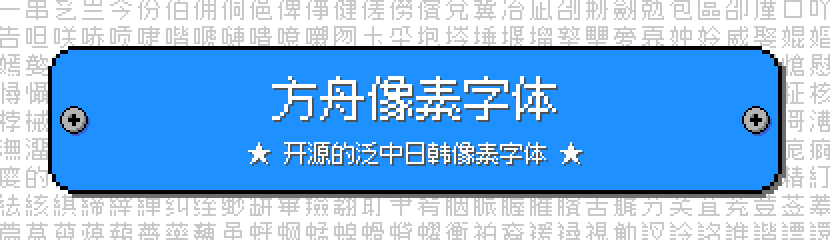
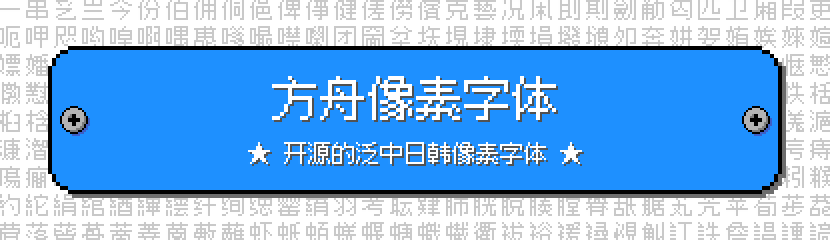
2025.12.11

diff --git a/tools/configs/__init__.py b/tools/configs/__init__.py
@@ -1,7 +1,7 @@
 from tools.configs import path_define, options
 from tools.configs.font import FontConfig
 
-version = '2025.10.20'
+version = '2025.12.11'
 
 font_configs = {font_size: FontConfig.load(font_size) for font_size in options.font_sizes}
 

diff --git a/docs/info-12px-monospaced.md b/docs/info-12px-monospaced.md
@@ -4,8 +4,8 @@
 
 | 属性 | 值 |
 |---|---|
-| 版本号 | 2025.10.20 |
-| 字符总数 | 22646 |
+| 版本号 | 2025.12.11 |
+| 字符总数 | 22944 |
 
 ## Unicode 字符分布
 
@@ -43,8 +43,8 @@ Unicode 版本：17.0.0
 | 3130 ~ 318F | Hangul Compatibility Jamo | 谚文兼容字母 | 94 / 94 | 0 | 100.00% 🚩 |
 | 3200 ~ 32FF | Enclosed CJK Letters and Months | 包围中日韩字母与月份 | 92 / 255 | 163 | 36.08% 🚧 |
 | 3300 ~ 33FF | CJK Compatibility | 中日韩兼容 | 60 / 256 | 196 | 23.44% 🚧 |
-| 3400 ~ 4DBF | CJK Unified Ideographs Extension A | 中日韩统一表意文字扩充 A | 922 / 6592 | 5670 | 13.99% 🚧 |
-| 4E00 ~ 9FFF | CJK Unified Ideographs | 中日韩统一表意文字 | 17851 / 20992 | 3141 | 85.04% 🚧 |
+| 3400 ~ 4DBF | CJK Unified Ideographs Extension A | 中日韩统一表意文字扩充 A | 1053 / 6592 | 5539 | 15.97% 🚧 |
+| 4E00 ~ 9FFF | CJK Unified Ideographs | 中日韩统一表意文字 | 17929 / 20992 | 3063 | 85.41% 🚧 |
 | A720 ~ A7FF | Latin Extended-D | 拉丁扩充-D | 7 / 199 | 192 | 3.52% 🚧 |
 | FE10 ~ FE1F | Vertical Forms | 竖排形式 | 10 / 10 | 0 | 100.00% 🚩 |
 | FE30 ~ FE4F | CJK Compatibility Forms | 中日韩兼容形式 | 32 / 32 | 0 | 100.00% 🚩 |
@@ -52,12 +52,12 @@ Unicode 版本：17.0.0
 | FFF0 ~ FFFF | Specials | 特殊 | 2 / 2 | 0 | 100.00% 🚩 |
 | 16FE0 ~ 16FFF | Ideographic Symbols and Punctuation | 表意文字符号与标点 | 5 / 7 | 2 | 71.43% 🚧 |
 | 1F100 ~ 1F1FF | Enclosed Alphanumeric Supplement | 包围字母数字增补 | 135 / 200 | 65 | 67.50% 🚧 |
-| 20000 ~ 2A6DF | CJK Unified Ideographs Extension B | 中日韩统一表意文字扩充 B | 683 / 42720 | 42037 | 1.60% 🚧 |
-| 2A700 ~ 2B73F | CJK Unified Ideographs Extension C | 中日韩统一表意文字扩充 C | 26 / 4154 | 4128 | 0.63% 🚧 |
+| 20000 ~ 2A6DF | CJK Unified Ideographs Extension B | 中日韩统一表意文字扩充 B | 763 / 42720 | 41957 | 1.79% 🚧 |
+| 2A700 ~ 2B73F | CJK Unified Ideographs Extension C | 中日韩统一表意文字扩充 C | 27 / 4154 | 4127 | 0.65% 🚧 |
 | 2B740 ~ 2B81F | CJK Unified Ideographs Extension D | 中日韩统一表意文字扩充 D | 9 / 222 | 213 | 4.05% 🚧 |
-| 2B820 ~ 2CEAF | CJK Unified Ideographs Extension E | 中日韩统一表意文字扩充 E | 20 / 5762 | 5742 | 0.35% 🚧 |
+| 2B820 ~ 2CEAF | CJK Unified Ideographs Extension E | 中日韩统一表意文字扩充 E | 27 / 5762 | 5735 | 0.47% 🚧 |
 | 2CEB0 ~ 2EBEF | CJK Unified Ideographs Extension F | 中日韩统一表意文字扩充 F | 3 / 7473 | 7470 | 0.04% 🚧 |
-| 30000 ~ 3134F | CJK Unified Ideographs Extension G | 中日韩统一表意文字扩充 G | 5 / 4939 | 4934 | 0.10% 🚧 |
+| 30000 ~ 3134F | CJK Unified Ideographs Extension G | 中日韩统一表意文字扩充 G | 6 / 4939 | 4933 | 0.12% 🚧 |
 
 ## GB2312 字符分布
 
@@ -65,10 +65,10 @@ Unicode 版本：17.0.0
 
 | 区块名称 | 完成数 | 缺失数 | 进度 |
 |---|---:|---:|---:|
-| 一级汉字 | 3535 / 3755 | 220 | 94.14% 🚧 |
-| 二级汉字 | 2627 / 3008 | 381 | 87.33% 🚧 |
+| 一级汉字 | 3537 / 3755 | 218 | 94.19% 🚧 |
+| 二级汉字 | 2631 / 3008 | 377 | 87.47% 🚧 |
 | 其他字符 | 651 / 682 | 31 | 95.45% 🚧 |
-| 总计 | 6813 / 7445 | 632 | 91.51% 🚧 |
+| 总计 | 6819 / 7445 | 626 | 91.59% 🚧 |
 
 ## Big5 字符分布
 
@@ -76,10 +76,10 @@ Unicode 版本：17.0.0
 
 | 区块名称 | 完成数 | 缺失数 | 进度 |
 |---|---:|---:|---:|
-| 常用汉字 | 4801 / 5401 | 600 | 88.89% 🚧 |
-| 次常用汉字 | 6330 / 7652 | 1322 | 82.72% 🚧 |
+| 常用汉字 | 4813 / 5401 | 588 | 89.11% 🚧 |
+| 次常用汉字 | 6369 / 7652 | 1283 | 83.23% 🚧 |
 | 其他字符 | 345 / 408 | 63 | 84.56% 🚧 |
-| 总计 | 11476 / 13461 | 1985 | 85.25% 🚧 |
+| 总计 | 11527 / 13461 | 1934 | 85.63% 🚧 |
 
 ## Shift-JIS 字符分布
 
@@ -90,8 +90,8 @@ Unicode 版本：17.0.0
 | 单字节-ASCII可打印字符 | 95 / 95 | 0 | 100.00% 🚩 |
 | 单字节-半角片假名 | 63 / 63 | 0 | 100.00% 🚩 |
 | 双字节-其他字符 | 492 / 524 | 32 | 93.89% 🚧 |
-| 双字节-汉字 | 5567 / 6355 | 788 | 87.60% 🚧 |
-| 总计 | 6217 / 7037 | 820 | 88.35% 🚧 |
+| 双字节-汉字 | 5593 / 6355 | 762 | 88.01% 🚧 |
+| 总计 | 6243 / 7037 | 794 | 88.72% 🚧 |
 
 ## KS-X-1001 字符分布
 
@@ -100,6 +100,6 @@ Unicode 版本：17.0.0
 | 区块名称 | 完成数 | 缺失数 | 进度 |
 |---|---:|---:|---:|
 | 谚文音节 | 0 / 2350 | 2350 | 0.00% 🚧 |
-| 汉字 | 4098 / 4888 | 790 | 83.84% 🚧 |
+| 汉字 | 4113 / 4888 | 775 | 84.14% 🚧 |
 | 其他字符 | 801 / 988 | 187 | 81.07% 🚧 |
-| 总计 | 4899 / 8226 | 3327 | 59.56% 🚧 |
+| 总计 | 4914 / 8226 | 3312 | 59.74% 🚧 |

diff --git a/docs/info-12px-proportional.md b/docs/info-12px-proportional.md
@@ -4,8 +4,8 @@
 
 | 属性 | 值 |
 |---|---|
-| 版本号 | 2025.10.20 |
-| 字符总数 | 22665 |
+| 版本号 | 2025.12.11 |
+| 字符总数 | 22963 |
 
 ## Unicode 字符分布
 
@@ -43,8 +43,8 @@ Unicode 版本：17.0.0
 | 3130 ~ 318F | Hangul Compatibility Jamo | 谚文兼容字母 | 94 / 94 | 0 | 100.00% 🚩 |
 | 3200 ~ 32FF | Enclosed CJK Letters and Months | 包围中日韩字母与月份 | 92 / 255 | 163 | 36.08% 🚧 |
 | 3300 ~ 33FF | CJK Compatibility | 中日韩兼容 | 60 / 256 | 196 | 23.44% 🚧 |
-| 3400 ~ 4DBF | CJK Unified Ideographs Extension A | 中日韩统一表意文字扩充 A | 922 / 6592 | 5670 | 13.99% 🚧 |
-| 4E00 ~ 9FFF | CJK Unified Ideographs | 中日韩统一表意文字 | 17851 / 20992 | 3141 | 85.04% 🚧 |
+| 3400 ~ 4DBF | CJK Unified Ideographs Extension A | 中日韩统一表意文字扩充 A | 1053 / 6592 | 5539 | 15.97% 🚧 |
+| 4E00 ~ 9FFF | CJK Unified Ideographs | 中日韩统一表意文字 | 17929 / 20992 | 3063 | 85.41% 🚧 |
 | A720 ~ A7FF | Latin Extended-D | 拉丁扩充-D | 7 / 199 | 192 | 3.52% 🚧 |
 | FE10 ~ FE1F | Vertical Forms | 竖排形式 | 10 / 10 | 0 | 100.00% 🚩 |
 | FE30 ~ FE4F | CJK Compatibility Forms | 中日韩兼容形式 | 32 / 32 | 0 | 100.00% 🚩 |
@@ -52,12 +52,12 @@ Unicode 版本：17.0.0
 | FFF0 ~ FFFF | Specials | 特殊 | 2 / 2 | 0 | 100.00% 🚩 |
 | 16FE0 ~ 16FFF | Ideographic Symbols and Punctuation | 表意文字符号与标点 | 5 / 7 | 2 | 71.43% 🚧 |
 | 1F100 ~ 1F1FF | Enclosed Alphanumeric Supplement | 包围字母数字增补 | 135 / 200 | 65 | 67.50% 🚧 |
-| 20000 ~ 2A6DF | CJK Unified Ideographs Extension B | 中日韩统一表意文字扩充 B | 683 / 42720 | 42037 | 1.60% 🚧 |
-| 2A700 ~ 2B73F | CJK Unified Ideographs Extension C | 中日韩统一表意文字扩充 C | 26 / 4154 | 4128 | 0.63% 🚧 |
+| 20000 ~ 2A6DF | CJK Unified Ideographs Extension B | 中日韩统一表意文字扩充 B | 763 / 42720 | 41957 | 1.79% 🚧 |
+| 2A700 ~ 2B73F | CJK Unified Ideographs Extension C | 中日韩统一表意文字扩充 C | 27 / 4154 | 4127 | 0.65% 🚧 |
 | 2B740 ~ 2B81F | CJK Unified Ideographs Extension D | 中日韩统一表意文字扩充 D | 9 / 222 | 213 | 4.05% 🚧 |
-| 2B820 ~ 2CEAF | CJK Unified Ideographs Extension E | 中日韩统一表意文字扩充 E | 20 / 5762 | 5742 | 0.35% 🚧 |
+| 2B820 ~ 2CEAF | CJK Unified Ideographs Extension E | 中日韩统一表意文字扩充 E | 27 / 5762 | 5735 | 0.47% 🚧 |
 | 2CEB0 ~ 2EBEF | CJK Unified Ideographs Extension F | 中日韩统一表意文字扩充 F | 3 / 7473 | 7470 | 0.04% 🚧 |
-| 30000 ~ 3134F | CJK Unified Ideographs Extension G | 中日韩统一表意文字扩充 G | 5 / 4939 | 4934 | 0.10% 🚧 |
+| 30000 ~ 3134F | CJK Unified Ideographs Extension G | 中日韩统一表意文字扩充 G | 6 / 4939 | 4933 | 0.12% 🚧 |
 
 ## GB2312 字符分布
 
@@ -65,10 +65,10 @@ Unicode 版本：17.0.0
 
 | 区块名称 | 完成数 | 缺失数 | 进度 |
 |---|---:|---:|---:|
-| 一级汉字 | 3535 / 3755 | 220 | 94.14% 🚧 |
-| 二级汉字 | 2627 / 3008 | 381 | 87.33% 🚧 |
+| 一级汉字 | 3537 / 3755 | 218 | 94.19% 🚧 |
+| 二级汉字 | 2631 / 3008 | 377 | 87.47% 🚧 |
 | 其他字符 | 651 / 682 | 31 | 95.45% 🚧 |
-| 总计 | 6813 / 7445 | 632 | 91.51% 🚧 |
+| 总计 | 6819 / 7445 | 626 | 91.59% 🚧 |
 
 ## Big5 字符分布
 
@@ -76,10 +76,10 @@ Unicode 版本：17.0.0
 
 | 区块名称 | 完成数 | 缺失数 | 进度 |
 |---|---:|---:|---:|
-| 常用汉字 | 4801 / 5401 | 600 | 88.89% 🚧 |
-| 次常用汉字 | 6330 / 7652 | 1322 | 82.72% 🚧 |
+| 常用汉字 | 4813 / 5401 | 588 | 89.11% 🚧 |
+| 次常用汉字 | 6369 / 7652 | 1283 | 83.23% 🚧 |
 | 其他字符 | 345 / 408 | 63 | 84.56% 🚧 |
-| 总计 | 11476 / 13461 | 1985 | 85.25% 🚧 |
+| 总计 | 11527 / 13461 | 1934 | 85.63% 🚧 |
 
 ## Shift-JIS 字符分布
 
@@ -90,8 +90,8 @@ Unicode 版本：17.0.0
 | 单字节-ASCII可打印字符 | 95 / 95 | 0 | 100.00% 🚩 |
 | 单字节-半角片假名 | 63 / 63 | 0 | 100.00% 🚩 |
 | 双字节-其他字符 | 492 / 524 | 32 | 93.89% 🚧 |
-| 双字节-汉字 | 5567 / 6355 | 788 | 87.60% 🚧 |
-| 总计 | 6217 / 7037 | 820 | 88.35% 🚧 |
+| 双字节-汉字 | 5593 / 6355 | 762 | 88.01% 🚧 |
+| 总计 | 6243 / 7037 | 794 | 88.72% 🚧 |
 
 ## KS-X-1001 字符分布
 
@@ -100,6 +100,6 @@ Unicode 版本：17.0.0
 | 区块名称 | 完成数 | 缺失数 | 进度 |
 |---|---:|---:|---:|
 | 谚文音节 | 0 / 2350 | 2350 | 0.00% 🚧 |
-| 汉字 | 4098 / 4888 | 790 | 83.84% 🚧 |
+| 汉字 | 4113 / 4888 | 775 | 84.14% 🚧 |
 | 其他字符 | 803 / 988 | 185 | 81.28% 🚧 |
-| 总计 | 4901 / 8226 | 3325 | 59.58% 🚧 |
+| 总计 | 4916 / 8226 | 3310 | 59.76% 🚧 |

diff --git a/docs/info-10px-monospaced.md b/docs/info-10px-monospaced.md
@@ -4,7 +4,7 @@
 
 | 属性 | 值 |
 |---|---|
-| 版本号 | 2025.10.20 |
+| 版本号 | 2025.12.11 |
 | 字符总数 | 3658 |
 
 ## Unicode 字符分布

diff --git a/docs/info-10px-proportional.md b/docs/info-10px-proportional.md
@@ -4,7 +4,7 @@
 
 | 属性 | 值 |
 |---|---|
-| 版本号 | 2025.10.20 |
+| 版本号 | 2025.12.11 |
 | 字符总数 | 3927 |
 
 ## Unicode 字符分布

diff --git a/docs/info-16px-monospaced.md b/docs/info-16px-monospaced.md
@@ -4,7 +4,7 @@
 
 | 属性 | 值 |
 |---|---|
-| 版本号 | 2025.10.20 |
+| 版本号 | 2025.12.11 |
 | 字符总数 | 2926 |
 
 ## Unicode 字符分布

diff --git a/docs/info-16px-proportional.md b/docs/info-16px-proportional.md
@@ -4,7 +4,7 @@
 
 | 属性 | 值 |
 |---|---|
-| 版本号 | 2025.10.20 |
+| 版本号 | 2025.12.11 |
 | 字符总数 | 2945 |
 
 ## Unicode 字符分布
